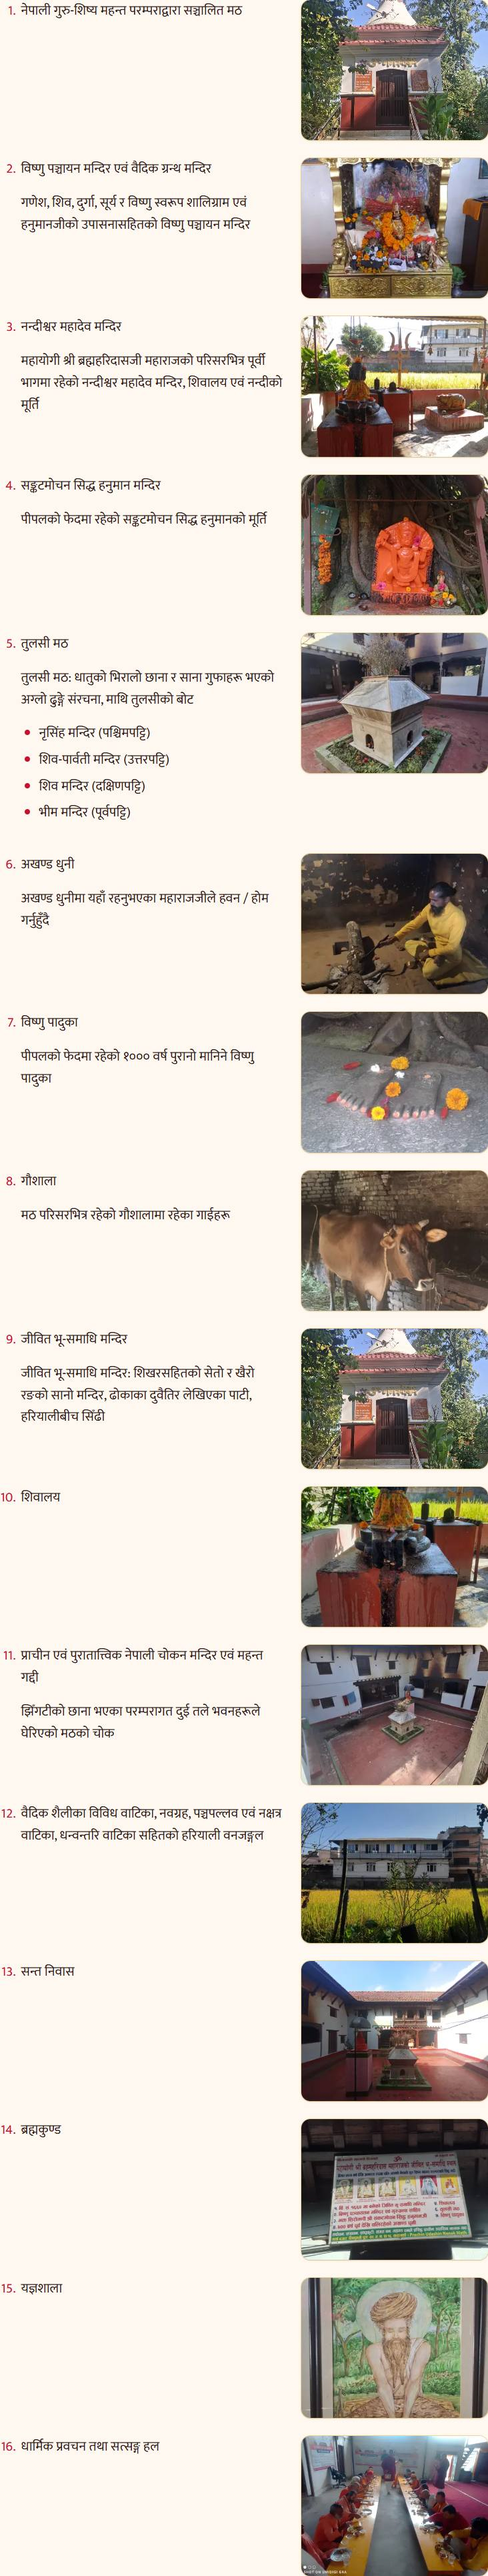
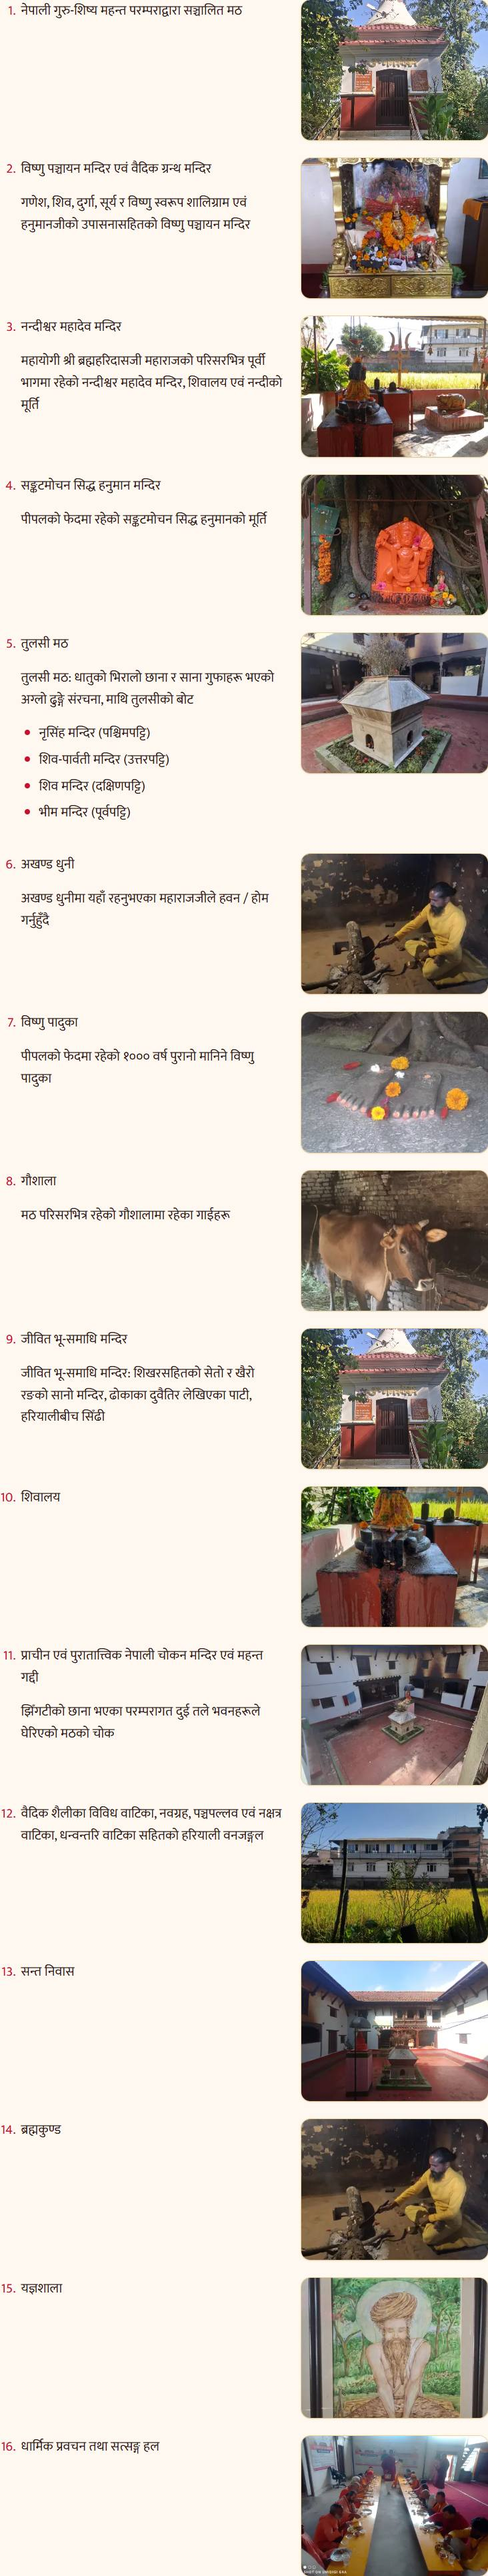
Nanak heritage list: item 14 uses the akhanda dhuni photo (as item 6)

Changed region(s): [[0.6011, 0.8079, 1.0, 0.9011]]

diff --git a/MISSING_INFO.md b/MISSING_INFO.md
@@ -77,7 +77,7 @@ Most of the missing Mhepi Ajima content, and all ward information, is probably i
 - [ ] **Typos in the Nepali to check (not changed):** "बुद्धिदास महाराजको तिथ" (तिथि); "वि.सं. २०८० असाेज" typed as ा+े (असोज); "वासन्तीक नवरात्र" (वासन्तिक); "विष्णु पञ्चायन" in 4 places (पञ्चायतन elsewhere); "संवर्धन  एवं" double space; "नेपाली चोकन मन्दिर" (चोक?).
 - [ ] **Photos beside "यहाँ भएका सम्पदाहरू" / "The Heritage Here"** (`content/section-photos.json`): matched by Claude using the guru's new photo descriptions. Confirm, especially item 11 (ancient Nepali chok temple and mahant gaddi → `main-courtyard`, the courtyard of the two-storey buildings) and item 2 (`gilded-shrine`, described as the Vishnu Panchayatan temple). No photo yet for items 1, 10 and 12–16.
   - [x] **Item 11 description**: turned on (17 Nov 2026) on confirmation that the courtyard photo matches "the ancient Nepali chok temple and the mahant gaddi". All nine items now show their photo's description.
-  - [x] **Items 10, 12, 13, 16 replaced (17 Nov 2026, from the team's pictures):** 10 Shivalinga and trishul (new: `shivalinga-trishul.webp`), 12 paddy field, 13 courtyard view, 16 bhandara (re-added). Nepali alt text of `shivalinga-trishul.webp` is by Claude; please check.
+  - [x] **Items 10, 12, 13, 16 replaced (17 Nov 2026, from the team's pictures):** 10 Shivalinga and trishul (new: `shivalinga-trishul.webp`), 12 paddy field, 13 courtyard view, 16 bhandara (re-added); 14 the akhanda dhuni photo, the same as item 6. Nepali alt text of `shivalinga-trishul.webp` is by Claude; please check.
   - [x] **Items 1, 10, 12–16** (superseded for 10, 12, 13, 16 by the line above) (17 Nov 2026, chosen by the team from the gallery's 4-column grid): 1 samadhi temple, 10 statue of Mahant Buddhidas, 12 Hanuman shrine under the peepal tree, 13 Nandi & Shivalinga, 14 heritage signboard, 15 painting of Brahmaharidas, 16 painting of Gothalramdas, all **without** captions. Now every item has a photo. Three photos appear twice in the list (samadhi temple: 1 and 9; Hanuman shrine: 4 and 12; Nandi & Shivalinga: 3 and 13); swap them for photos of the actual places when the team has them.
 - [ ] **Alternative name "Siddheshwar Mahadev" — needs a source.** Given by the ward team (13 Nov 2026) but not confirmed. It was removed from the chatbot topic label in the Phase 9 review and is **not shown anywhere** on the site.
   - A search of raw-data found **no occurrence** of Siddheshwar / सिद्धेश्वर (or its spelling variants) in the docx, the transcribed signboards and inscriptions, or any file name. The three web sources don't mention it either.

diff --git a/docs/screenshots/nanak-list-photos/README.md b/docs/screenshots/nanak-list-photos/README.md
@@ -10,11 +10,11 @@ Photos added for items without one, chosen by the team. None of these show a cap
 | 10. The Shivalaya | Shivalinga and trishul (new to the gallery: `shivalinga-trishul.webp`) |
 | 12. Green forest and gardens | paddy field |
 | 13. Sant niwas | courtyard view |
-| 14. Brahma Kunda | heritage signboard |
+| 14. Brahma Kunda | akhanda dhuni (same photo as item 6) |
 | 15. Yajnashala | painting of Brahmaharidas |
 | 16. Satsang hall | sadhus at a shared meal (`bhandara.webp`, re-added with consent and the photographer's permission) |
 
-Items 2–9 and 11 keep their photos and captions. The samadhi temple photo appears twice in the list, for items 1 and 9.
+Items 2–9 and 11 keep their photos and captions. Two photos appear twice in the list: the samadhi temple (items 1 and 9) and the akhanda dhuni (items 6 and 14).
 
 **Checks:** the strict build passes. In EN and NE at 375, 768 and 1440 px:
 - all 16 items have a photo;
